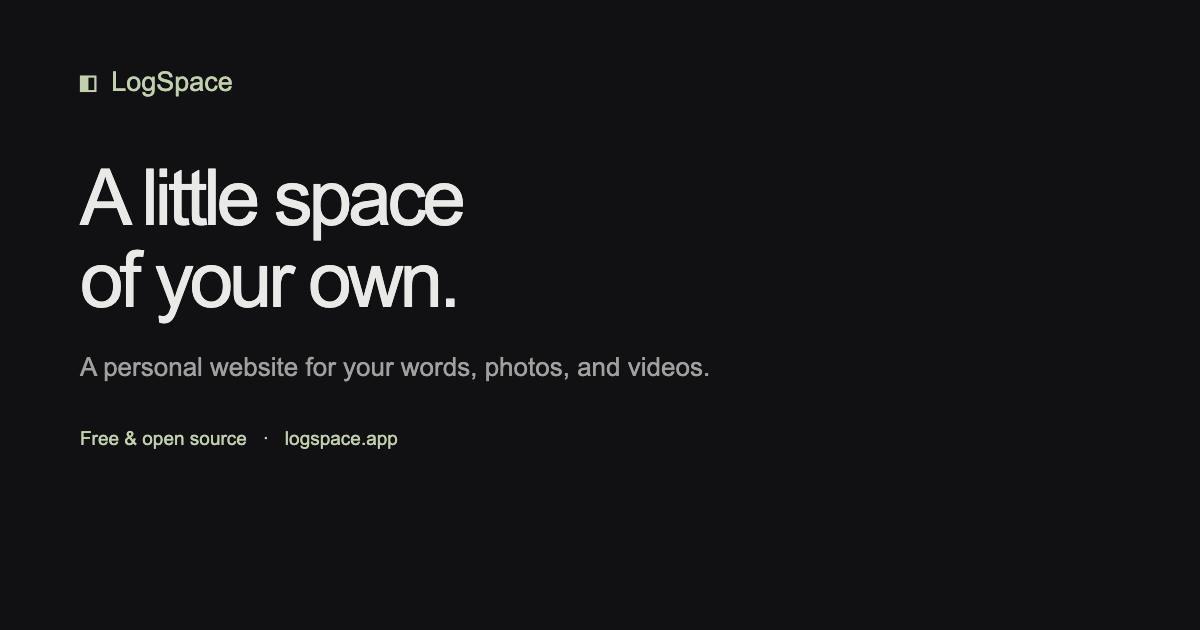
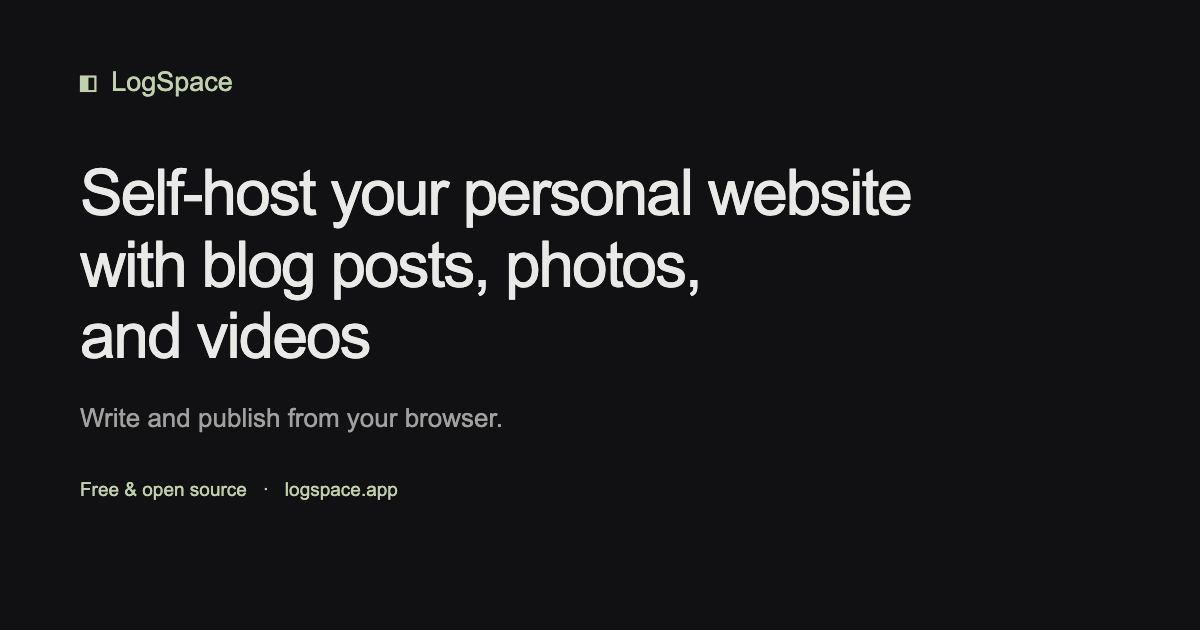
Use direct website copy and remove eyebrow headings

Changed region(s): [[0.0617, 0.2714, 0.7708, 0.6032], [0.0617, 0.6333, 0.4317, 0.7238], [0.0617, 0.754, 0.3392, 0.8143]]

diff --git a/website/app/home.tsx b/website/app/home.tsx
@@ -11,11 +11,11 @@ export function HomePage() {
           data-rmx-key="viewport"
         />
         <title data-rmx-key="title">
-          LogSpace — A little space of your own.
+          LogSpace — Self-host your personal website
         </title>
         <meta
           name="description"
-          content="A personal website for your words, photos, and videos. Publish from your browser. Your domain, your content, your little corner of the internet."
+          content="Self-host your personal website with blog posts, photos, and videos. Write and publish from your browser."
           data-rmx-key="description"
         />
         <link
@@ -27,12 +27,12 @@ export function HomePage() {
         <meta property="og:type" content="website" data-rmx-key="og-type" />
         <meta
           property="og:title"
-          content="LogSpace — A little space of your own."
+          content="LogSpace — Self-host your personal website"
           data-rmx-key="og-title"
         />
         <meta
           property="og:description"
-          content="Words, photos, videos, and the days in between. A personal website on your own terms."
+          content="Self-host your personal website with blog posts, photos, and videos."
           data-rmx-key="og-description"
         />
         <meta
@@ -47,7 +47,7 @@ export function HomePage() {
         />
         <meta
           property="og:image:alt"
-          content="LogSpace. A little space of your own. A personal website for your words, photos, and videos."
+          content="LogSpace. Self-host your personal website with blog posts, photos, and videos."
           data-rmx-key="og-alt"
         />
         <meta
@@ -83,22 +83,17 @@ export function HomePage() {
         </header>
         <main id="main">
           <section class="hero" aria-labelledby="headline">
-            <p class="eyebrow">
-              <span aria-hidden="true" /> YOUR OWN CORNER OF THE INTERNET
-            </p>
             <h1 id="headline">
-              A little space
-              <br />
-              of your own.
+              Self-host your personal website with blog posts, photos, and
+              videos
             </h1>
             <p class="lede">
-              Words, photos, videos, and the days in between.
-              <br class="desktop-break" /> A personal website, on your own
-              terms.
+              Write and publish from your browser. Run it on your own server and
+              domain.
             </p>
             <p class="hero-links">
               <a class="primary-link" href="#install">
-                Make yourself at home <span aria-hidden="true">↓</span>
+                Install LogSpace <span aria-hidden="true">↓</span>
               </a>
               <span>Free &amp; open source</span>
             </p>
@@ -110,8 +105,8 @@ export function HomePage() {
                 <i />
                 <i />
               </span>
-              <span>mira’s little corner</span>
-              <span class="demo-tag">A LOOK INSIDE</span>
+              <span>Example website</span>
+              <span class="demo-tag">DEMO</span>
             </div>
             <video
               controls
@@ -134,25 +129,24 @@ export function HomePage() {
               <a href="/demo.mp4">Watch the LogSpace demo</a>
             </video>
             <figcaption id="demo-caption">
-              A small tour: browse, write, publish. Mira and her posts are
-              fictional.
+              Demo: browse posts and publish a new one. The profile and posts
+              are fictional.
             </figcaption>
           </figure>
-          <section class="about" aria-label="Why LogSpace">
+          <section class="about" aria-label="Features">
             <p>
-              <strong>Post whatever feels like you.</strong> A passing thought,
-              a photo from a walk, a short video, or a longer story. All
-              together in one simple feed.
+              <strong>Posts, photos, and videos.</strong> Publish short updates
+              or longer blog posts, upload media, and display them in a single
+              feed.
             </p>
             <p>
-              <strong>Write in your browser.</strong> Sign in, add a post, and
-              publish. Give your site a name, a welcome message, and a look that
-              feels like home.
+              <strong>Browser-based editing.</strong> Write in Markdown, edit
+              published posts, and change your site’s title, description, and
+              images.
             </p>
             <p>
-              <strong>Keep it yours.</strong> Your domain. Your server. Your
-              content. Readers can visit or follow by RSS, without signing up
-              for anything.
+              <strong>RSS and shareable links.</strong> Every post has its own
+              URL. Readers can subscribe with an RSS reader without an account.
             </p>
           </section>
           <section
@@ -160,8 +154,7 @@ export function HomePage() {
             id="install"
             aria-labelledby="install-heading"
           >
-            <p class="eyebrow">SETTLE IN</p>
-            <h2 id="install-heading">Your space starts here.</h2>
+            <h2 id="install-heading">Install LogSpace</h2>
             <p>On your Linux server, install LogSpace:</p>
             <div class="command">
               <pre>
@@ -182,20 +175,18 @@ export function HomePage() {
             <p class="note">
               Point your domain to the server and install Caddy, then run{" "}
               <code>sudo logspace setup yourdomain.com</code>. Open{" "}
-              <code>/admin</code> to make it yours.
+              <code>/admin</code> to configure your site and publish posts.
             </p>
             <a class="guide-link" href={`${github}#deploy`}>
               Read the deployment guide <span aria-hidden="true">↗</span>
             </a>
             <p class="fine-print">
-              A Linux server and a domain are all you need to bring.
-              <br />
-              Already at home? Update with <code>sudo logspace upgrade</code>.
+              Update with <code>sudo logspace upgrade</code>.
             </p>
           </section>
         </main>
         <footer>
-          <span>A little more of the web, owned by you.</span>
+          <span>LogSpace is free and open source.</span>
           <span>
             <a href={github}>Source</a>
             <span aria-hidden="true"> · </span>

diff --git a/website/scripts/record-demo.ts b/website/scripts/record-demo.ts
@@ -72,20 +72,14 @@ try {
     cues.push({ start, end: (Date.now() - started) / 1000, text });
   }
   await page.screenshot({ path: join(temporary, "poster.png") });
-  await hold(
-    "Meet Mira. A fictional person, with a real LogSpace website.",
-    3000,
-  );
+  await hold("This example website uses a fictional profile and posts.", 3000);
   await page.evaluate(() => window.scrollTo({ top: 650, behavior: "smooth" }));
-  await hold(
-    "Photos, passing thoughts, and longer stories live together in one feed.",
-    2800,
-  );
+  await hold("Text posts, photos, and articles appear in one feed.", 2800);
   await page.locator('a[data-post-link][href="/posts/mirastory1"]').click();
   await expect(
     page.getByRole("heading", { name: "The long way around" }),
   ).toBeVisible();
-  await hold("Give a longer story its own page.", 2600);
+  await hold("Open an article to read the full post.", 2600);
   await page.goto(`${baseURL}/admin`);
   await page.getByRole("link", { name: "New Post", exact: true }).click();
   await page.getByLabel("Date", { exact: true }).fill("2026-10-22T10:30");
@@ -97,16 +91,16 @@ try {
       "Made a little space for the things I want to remember.\n\nToday: cold air, warm coffee, and the first page of a new notebook.",
       { delay: 42 },
     );
-  await hold("Sign in, write a thought, and make it yours.", 1000);
+  await hold("Create a text post in the admin page.", 1000);
   await page.getByRole("button", { name: "Publish", exact: true }).click();
   await expect(
     page.getByText("Made a little space for the things I want to remember.", {
       exact: false,
     }),
   ).toBeVisible();
-  await hold("Publish. Every post gets a link of its own.", 2000);
+  await hold("Click Publish to save the post at its own URL.", 2000);
   await page.goto(baseURL);
-  await hold("Your words, on your website. That’s LogSpace.", 3000);
+  await hold("The new post appears at the top of the feed.", 3000);
   await context.close();
   const recording = await video.path();
   execFileSync(

diff --git a/website/public/style.css b/website/public/style.css
@@ -73,27 +73,12 @@ nav a {
 .hero {
   padding: 85px 0 48px;
 }
-.eyebrow {
-  display: flex;
-  align-items: center;
-  gap: 8px;
-  color: var(--muted);
-  font-size: 10px;
-  font-weight: 600;
-  letter-spacing: 1.7px;
-}
-.eyebrow span {
-  width: 6px;
-  height: 6px;
-  border-radius: 50%;
-  background: var(--accent);
-}
 h1 {
-  margin: 22px 0 22px;
-  font-size: clamp(44px, 7vw, 64px);
+  margin: 0 0 22px;
+  font-size: clamp(34px, 5.5vw, 48px);
   font-weight: 520;
-  letter-spacing: -3px;
-  line-height: 1.05;
+  letter-spacing: -1.8px;
+  line-height: 1.15;
 }
 .lede {
   color: var(--muted);
@@ -191,7 +176,7 @@ h2 {
   margin: 10px 0 17px;
   line-height: 1.25;
 }
-.install > p:not(.eyebrow) {
+.install > p {
   color: var(--muted);
   font-size: 14px;
 }
@@ -303,15 +288,8 @@ footer {
   .lede {
     font-size: 16px;
   }
-  .desktop-break {
-    display: none;
-  }
   .hero-links {
     gap: 16px;
-  }
-  .eyebrow {
-    font-size: 9px;
-    letter-spacing: 1.3px;
   }
   .about {
     padding-block: 34px;

diff --git a/website/tests/website.spec.ts b/website/tests/website.spec.ts
@@ -8,15 +8,15 @@ test("landing page, links, and responsive layout", async ({ page }) => {
   page.on("pageerror", (error) => errors.push(error.message));
   await page.goto("/");
   await expect(page.getByRole("heading", { level: 1 })).toHaveText(
-    "A little spaceof your own.",
+    "Self-host your personal website with blog posts, photos, and videos",
   );
   await expect(page.getByRole("link", { name: "Changelog" })).toHaveAttribute(
     "href",
     "https://github.com/aakashns/logspace/releases",
   );
-  await page.getByRole("link", { name: "Make yourself at home" }).click();
+  await page.getByRole("link", { name: "Install LogSpace" }).click();
   await expect(
-    page.getByRole("heading", { name: "Your space starts here." }),
+    page.getByRole("heading", { name: "Install LogSpace" }),
   ).toBeInViewport();
   expect(
     await page.evaluate(

diff --git a/README.md b/README.md
@@ -1,6 +1,6 @@
 # LogSpace
 
-A personal website for your words, photos, and videos. Publish from your browser, on your own domain, with your content on your own server. Free and open source.
+Self-host your personal website with blog posts, photos, and videos. Write and publish from your browser. Free and open source.
 
 [Website & demo](https://logspace.app) · [Changelog](https://github.com/aakashns/logspace/releases) · [Contributing](CONTRIBUTING.md)
 
@@ -15,7 +15,7 @@ sudo logspace setup example.com www.example.com
 
 Replace the domains with yours. Setup asks for an admin password, starts LogSpace, enables HTTPS, and redirects the second domain to the first. The installer also supports macOS for local use.
 
-## Make it yours
+## Publish
 
 1. Open `https://example.com/admin` and log in.
 2. Save your site title, URL, and description. Add a welcome message, logo, and icon if you like. Your site becomes public once these settings are saved.
@@ -23,7 +23,7 @@ Replace the domains with yours. Setup asks for an admin password, starts LogSpac
 
 Write in Markdown and upload media directly. Every post has its own link; readers can follow along with RSS. Light and dark themes are built in.
 
-## Keep it running
+## Updates and backups
 
 ```sh
 sudo logspace upgrade              # Install the latest release
@@ -40,6 +40,6 @@ sudo cp -a /var/lib/logspace/media /root/logspace-media-backup
 
 Use a fresh destination for each backup, avoid publishing or deleting posts while backing up, and keep a copy off the server. Protect a copy of `/etc/logspace.env` too; it contains your admin secrets. See `logspace help` for configuration options.
 
-## Get involved
+## Contribute
 
 [Report a bug](https://github.com/aakashns/logspace/issues) or read [CONTRIBUTING.md](CONTRIBUTING.md) to work on the app or website. Licensed under [MIT](LICENSE).
